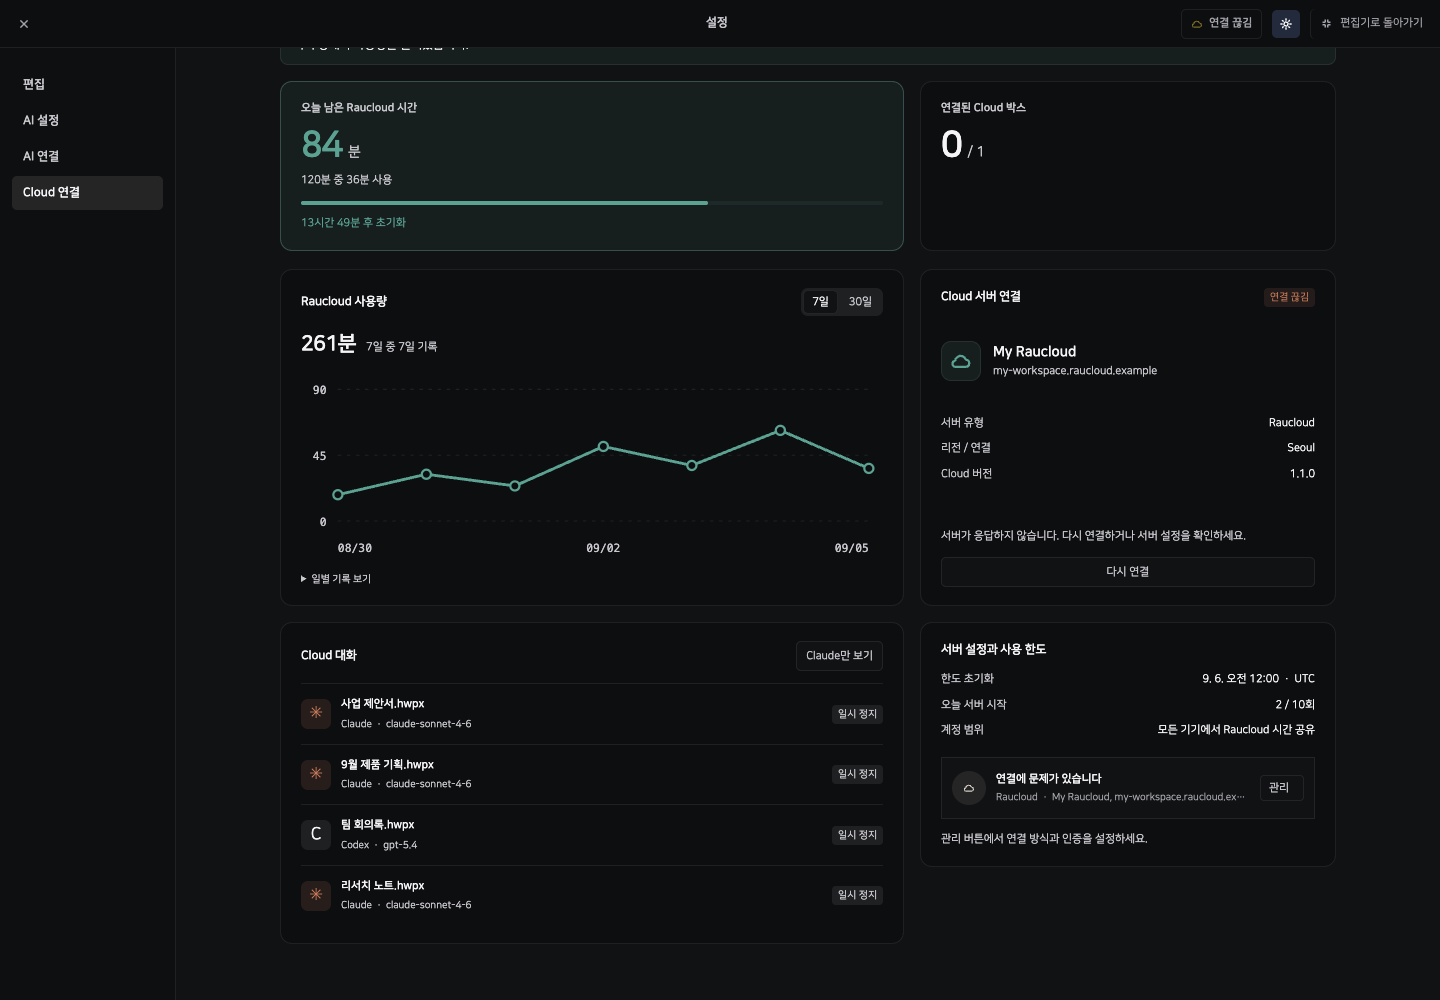
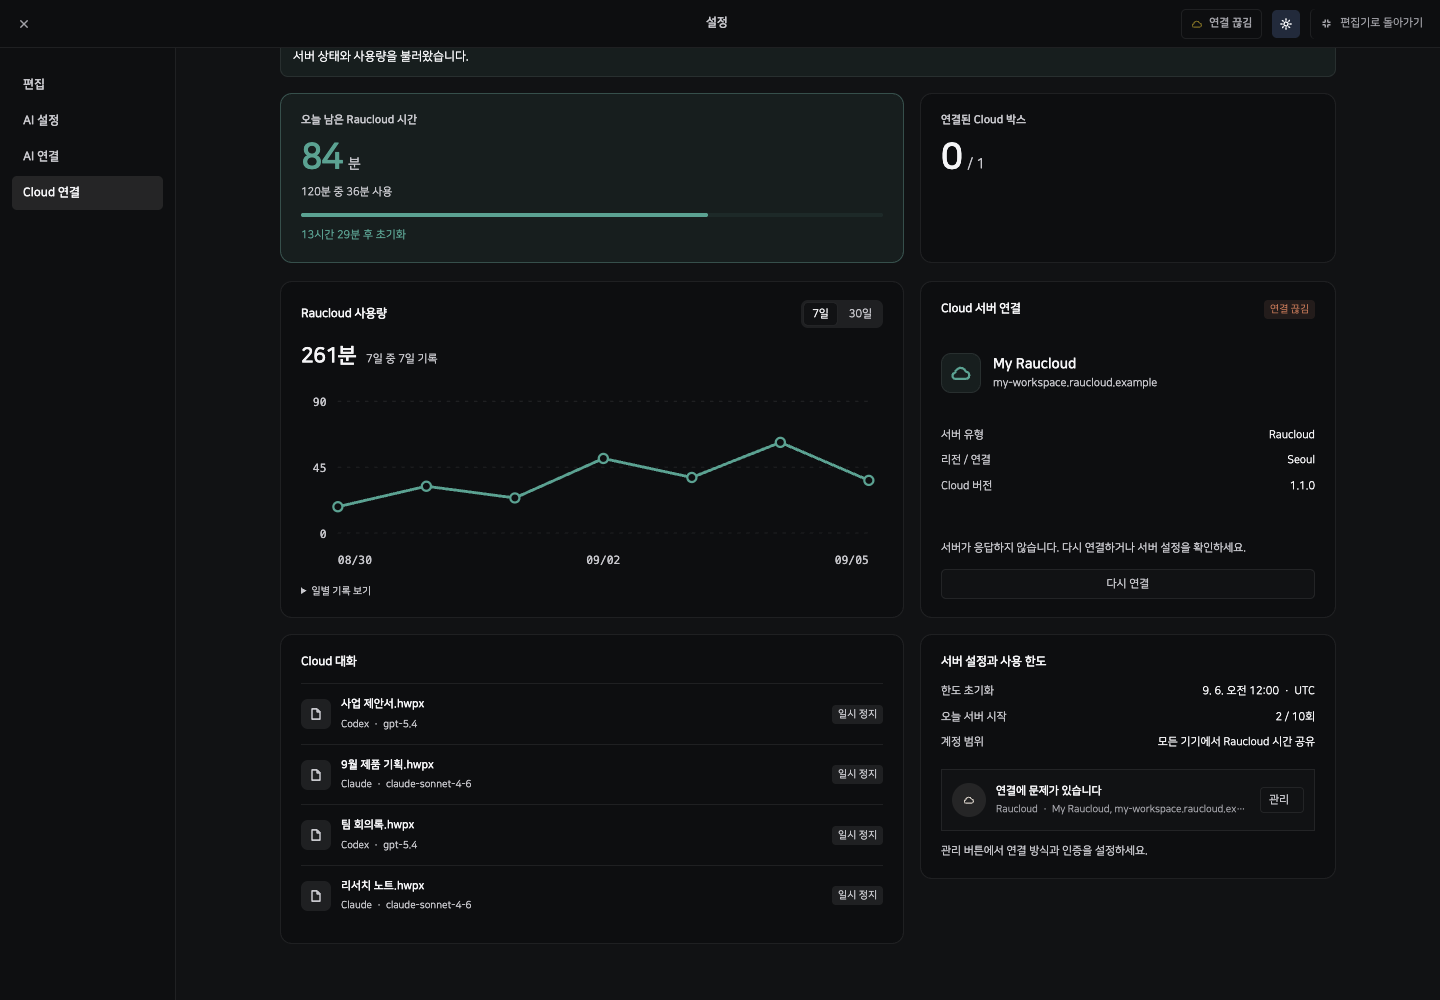
Make the Cloud conversation list provider neutral

diff --git a/rhwp/rhwp-studio/src/ui/agent-sidebar/cloud-dashboard.ts b/rhwp/rhwp-studio/src/ui/agent-sidebar/cloud-dashboard.ts
@@ -51,7 +51,6 @@ const sessionLabels: Record<CloudSnapshot['session']['kind'], string> = {
 export function createCloudDashboard(deps: CloudDashboardDeps) {
   let snapshot: CloudSnapshot | null = null;
   let range: 7 | 30 = 7;
-  let claudeOnly = false;
   let pending = false;
   let refreshError = false;
   let disposed = false;
@@ -156,14 +155,6 @@ export function createCloudDashboard(deps: CloudDashboardDeps) {
   server.root.append(serverIdentity, serverFacts, serverNote, reconnect);
 
   const chats = panel('Cloud 대화', 'ag-cd-chats');
-  const filter = button('Claude만 보기');
-  filter.setAttribute('aria-pressed', 'false');
-  filter.addEventListener('click', () => {
-    claudeOnly = !claudeOnly;
-    filter.setAttribute('aria-pressed', String(claudeOnly));
-    renderSessions();
-  });
-  chats.head.append(filter);
   const chatList = el('ul', 'ag-cd-chat-list');
   chats.root.append(chatList);
 
@@ -313,18 +304,17 @@ export function createCloudDashboard(deps: CloudDashboardDeps) {
 
   function renderSessions() {
     if (!snapshot) return;
-    const summary = cloudDashboardSessions(snapshot);
-    const entries = summary.entries.filter((entry) => !claudeOnly || entry.selection?.agent === 'claude');
-    const signature = JSON.stringify([claudeOnly, entries]);
+    const entries = cloudDashboardSessions(snapshot);
+    const signature = JSON.stringify(entries);
     if (signature === sessionsSignature) return;
     sessionsSignature = signature;
     chatList.replaceChildren();
-    if (!entries.length) chatList.append(el('li', 'ag-cd-empty', claudeOnly ? 'Claude를 선택한 대화가 없습니다.' : '아직 Cloud 대화가 없습니다. 채팅에서 클라우드를 선택해 시작하세요.'));
+    if (!entries.length) chatList.append(el('li', 'ag-cd-empty', '아직 Cloud 대화가 없습니다. 채팅에서 클라우드를 선택해 시작하세요.'));
     entries.forEach((entry) => {
       const item = el('li', 'ag-cd-chat');
       const provider = entry.selection?.agent;
-      const mark = el('span', 'ag-cd-chat-mark', provider === 'claude' ? '✳' : provider ? AGENT_LABEL[provider].slice(0, 1) : '?');
-      mark.dataset.provider = provider ?? 'unknown';
+      const mark = el('span', 'ag-cd-chat-mark');
+      mark.append(createIcon('document'));
       mark.setAttribute('aria-hidden', 'true');
       const copy = el('div', 'ag-cd-chat-copy');
       copy.append(el('strong', '', entry.documentName || '이름 없는 문서'),

diff --git a/rhwp/rhwp-studio/src/ui/agent-sidebar/cloud-dashboard.css b/rhwp/rhwp-studio/src/ui/agent-sidebar/cloud-dashboard.css
@@ -79,13 +79,12 @@
 .ag-cd-reconnect { margin-top: 12px; }
 .ag-cd-chat-list { list-style: none; margin: 10px 0 0; padding: 0; max-height: 248px; overflow-y: auto; }
 .ag-cd-chat { display: flex; align-items: center; gap: 10px; padding: 12px 0; border-top: 1px solid var(--ag-border); }
-.ag-cd-chat-mark { display: grid; place-items: center; width: 30px; height: 30px; flex: 0 0 30px; background: var(--ag-hover); border-radius: 7px; font-size: 17px; }
-.ag-cd-chat-mark[data-provider='claude'] { color: #c77958; background: color-mix(in srgb, #c77958 12%, var(--ag-bg)); }
+.ag-cd-chat-mark { display: grid; place-items: center; width: 30px; height: 30px; flex: 0 0 30px; background: var(--ag-hover); border-radius: 7px; color: var(--ag-text-secondary); }
+.ag-cd-chat-mark .ag-icon { width: 16px; height: 16px; }
 .ag-cd-chat-copy { display: grid; gap: 3px; min-width: 0; flex: 1; }
 .ag-cd-chat-copy strong { font-size: 11px; font-weight: 550; white-space: nowrap; text-overflow: ellipsis; overflow: hidden; }
 .ag-cd-chat-copy .ag-cd-muted { font-size: 10px; }
 .ag-cd-empty { padding: 24px 8px; color: var(--ag-text-secondary); font-size: 11px; text-align: center; }
-.ag-cd-chats .ag-cd-button[aria-pressed='true'] { background: var(--cd-tint); border-color: var(--cd-accent); }
 .ag-cd-config .ag-cloud-settings { margin: 18px 0 12px; }
 .ag-cd-config .ag-settings-section-title { display: none; }
 .ag-cd-config .ag-cloud-settings-card { background: var(--ag-bg); }

diff --git a/rhwp/rhwp-studio/tests/cloud-usage-history.test.ts b/rhwp/rhwp-studio/tests/cloud-usage-history.test.ts
@@ -71,14 +71,12 @@ test('history retains only 31 days and accepts newer corrected totals', () => {
   assert.equal(readCloudUsage(snapshot.account, store).at(-1)?.usedMs, 200);
 });
 
-test('chat counts deduplicate sessions by thread and do not guess unknown providers', () => {
+test('dashboard sessions include every provider and deduplicate the current session', () => {
   const snapshot = fixture();
   const session = { kind: 'running', sessionId: 'a', threadId: 'chat', selection: { agent: 'claude' } };
-  snapshot.sessions = [session, { ...session, sessionId: 'b' }, { ...session, sessionId: 'c', threadId: 'unknown', selection: undefined }] as CloudSnapshot['sessions'];
+  snapshot.sessions = [session, { ...session, sessionId: 'b', selection: { agent: 'codex' } }, { ...session, sessionId: 'c', threadId: 'unknown', selection: undefined }] as CloudSnapshot['sessions'];
   snapshot.session = snapshot.sessions[0];
   const result = cloudDashboardSessions(snapshot);
-  assert.equal(result.entries.length, 3);
-  assert.equal(result.chats, 2);
-  assert.equal(result.claudeChats, 1);
-  assert.equal(result.unknownChats, 1);
+  assert.deepEqual(result.map((entry) => entry.sessionId), ['a', 'b', 'c']);
+  assert.deepEqual(result.map((entry) => entry.selection?.agent), ['claude', 'codex', undefined]);
 });

diff --git a/rhwp/rhwp-studio/src/cloud/usage-history.ts b/rhwp/rhwp-studio/src/cloud/usage-history.ts
@@ -70,12 +70,5 @@ export function cloudUsageSeries(days: CloudUsageDay[], count: 7 | 30, now: Date
 export function cloudDashboardSessions(snapshot: CloudSnapshot) {
   const sessions = new Map(snapshot.sessions.map((session) => [session.sessionId, session]));
   if (snapshot.session.kind !== 'idle') sessions.set(snapshot.session.sessionId, snapshot.session);
-  const entries = [...sessions.values()];
-  return {
-    entries,
-    chats: new Set(entries.map((session) => session.threadId)).size,
-    claudeChats: new Set(entries.filter((session) => session.selection?.agent === 'claude').map((session) => session.threadId)).size,
-    unknownChats: new Set(entries.filter((session) => !session.selection).map((session) => session.threadId)).size,
-    active: entries.filter((session) => ['running', 'queued', 'transferring', 'pausing', 'taking-over'].includes(session.kind)).length,
-  };
+  return [...sessions.values()];
 }

diff --git a/rhwp/rhwp-studio/src/sidebar-preview/mock-cloud.ts b/rhwp/rhwp-studio/src/sidebar-preview/mock-cloud.ts
@@ -53,7 +53,7 @@ export function createMockCloud(options: { dashboard?: boolean } = {}) {
     state.sessions = names.map((documentName, index) => ({ kind: 'suspended',
       sessionId: `dashboard-session-${index}`, threadId: `dashboard-chat-${index}`, documentId: `dashboard-doc-${index}`,
       documentName, version: 1, reason: '사용자가 일시 정지했습니다.', resumable: true,
-      selection: { agent: index === 2 ? 'codex' : 'claude', model: index === 2 ? 'gpt-5.4' : 'claude-sonnet-4-6', effort: 'high' } }));
+      selection: { agent: index % 2 === 0 ? 'codex' : 'claude', model: index % 2 === 0 ? 'gpt-5.4' : 'claude-sonnet-4-6', effort: 'high' } }));
   }
   function snapshot(): CloudSnapshot {
     state.revision++;
